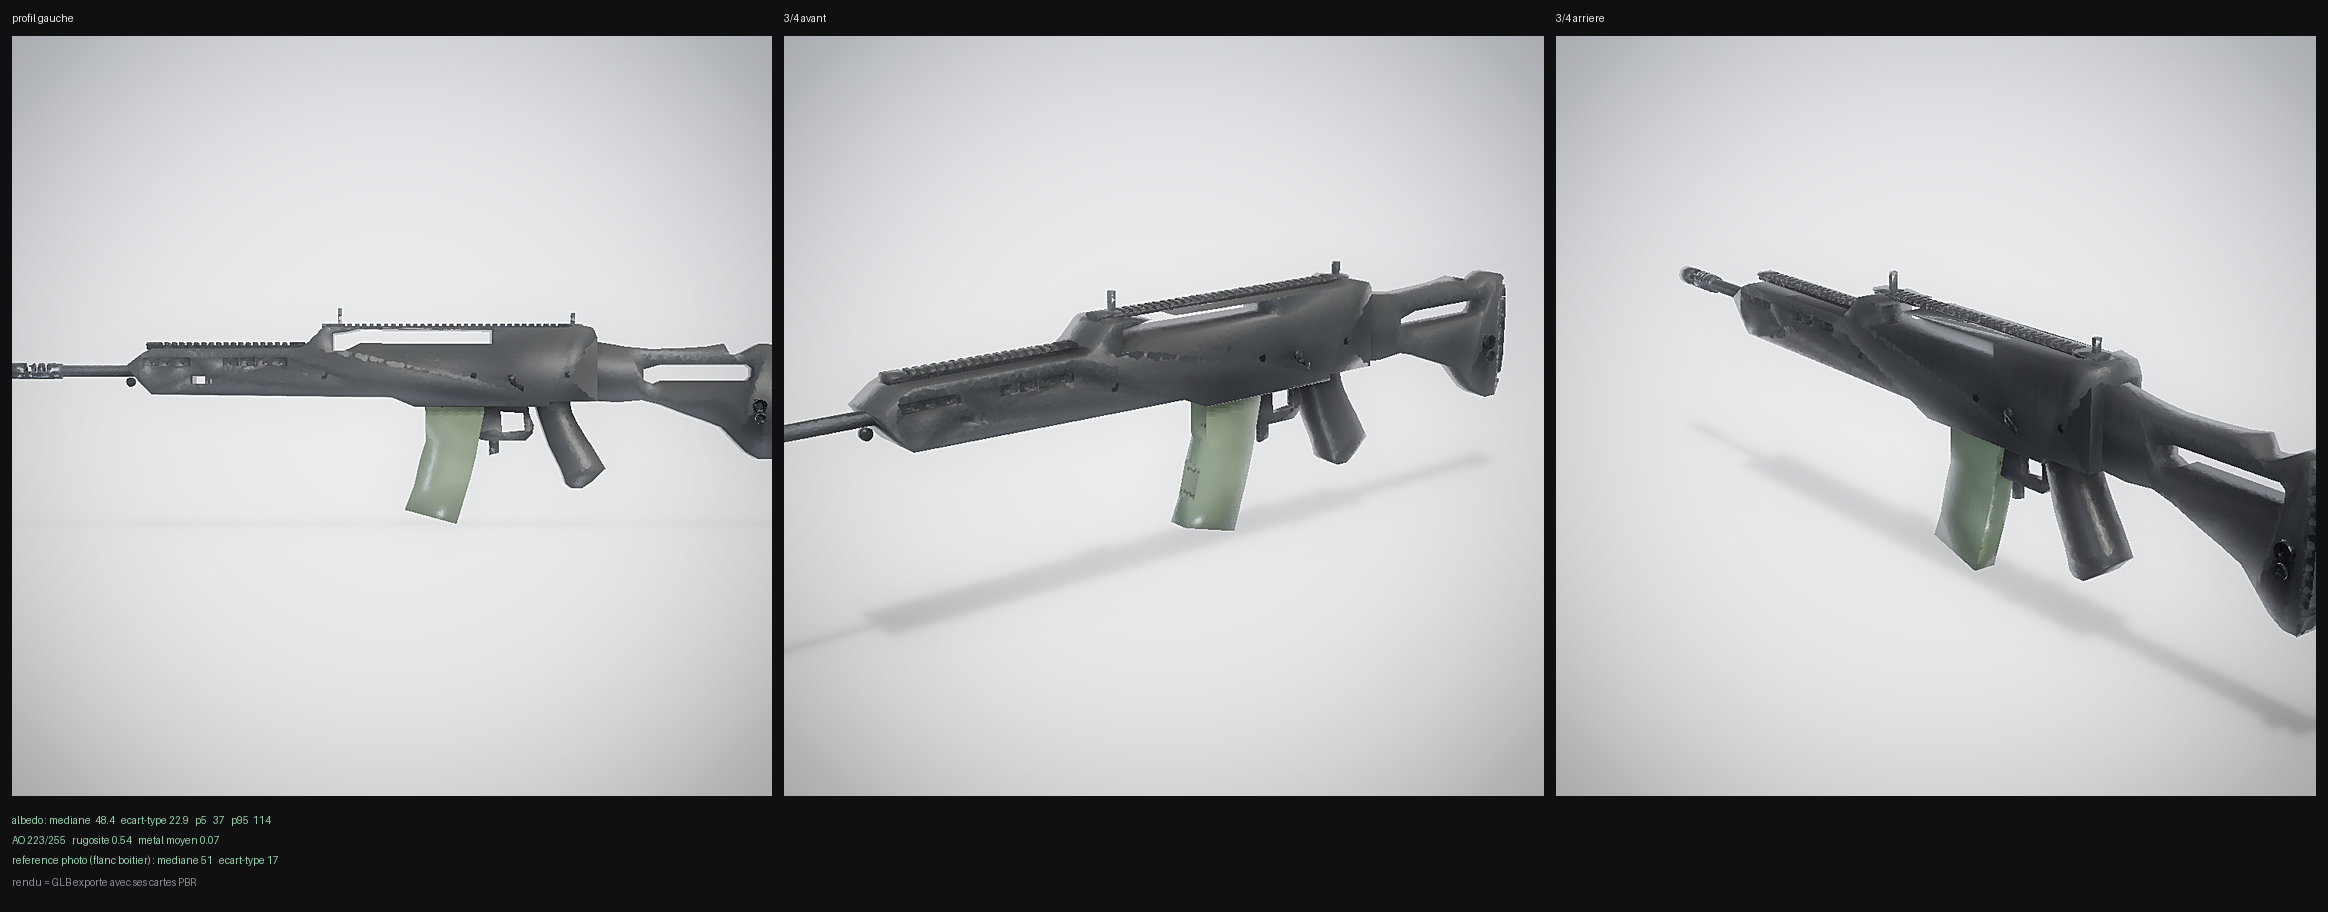
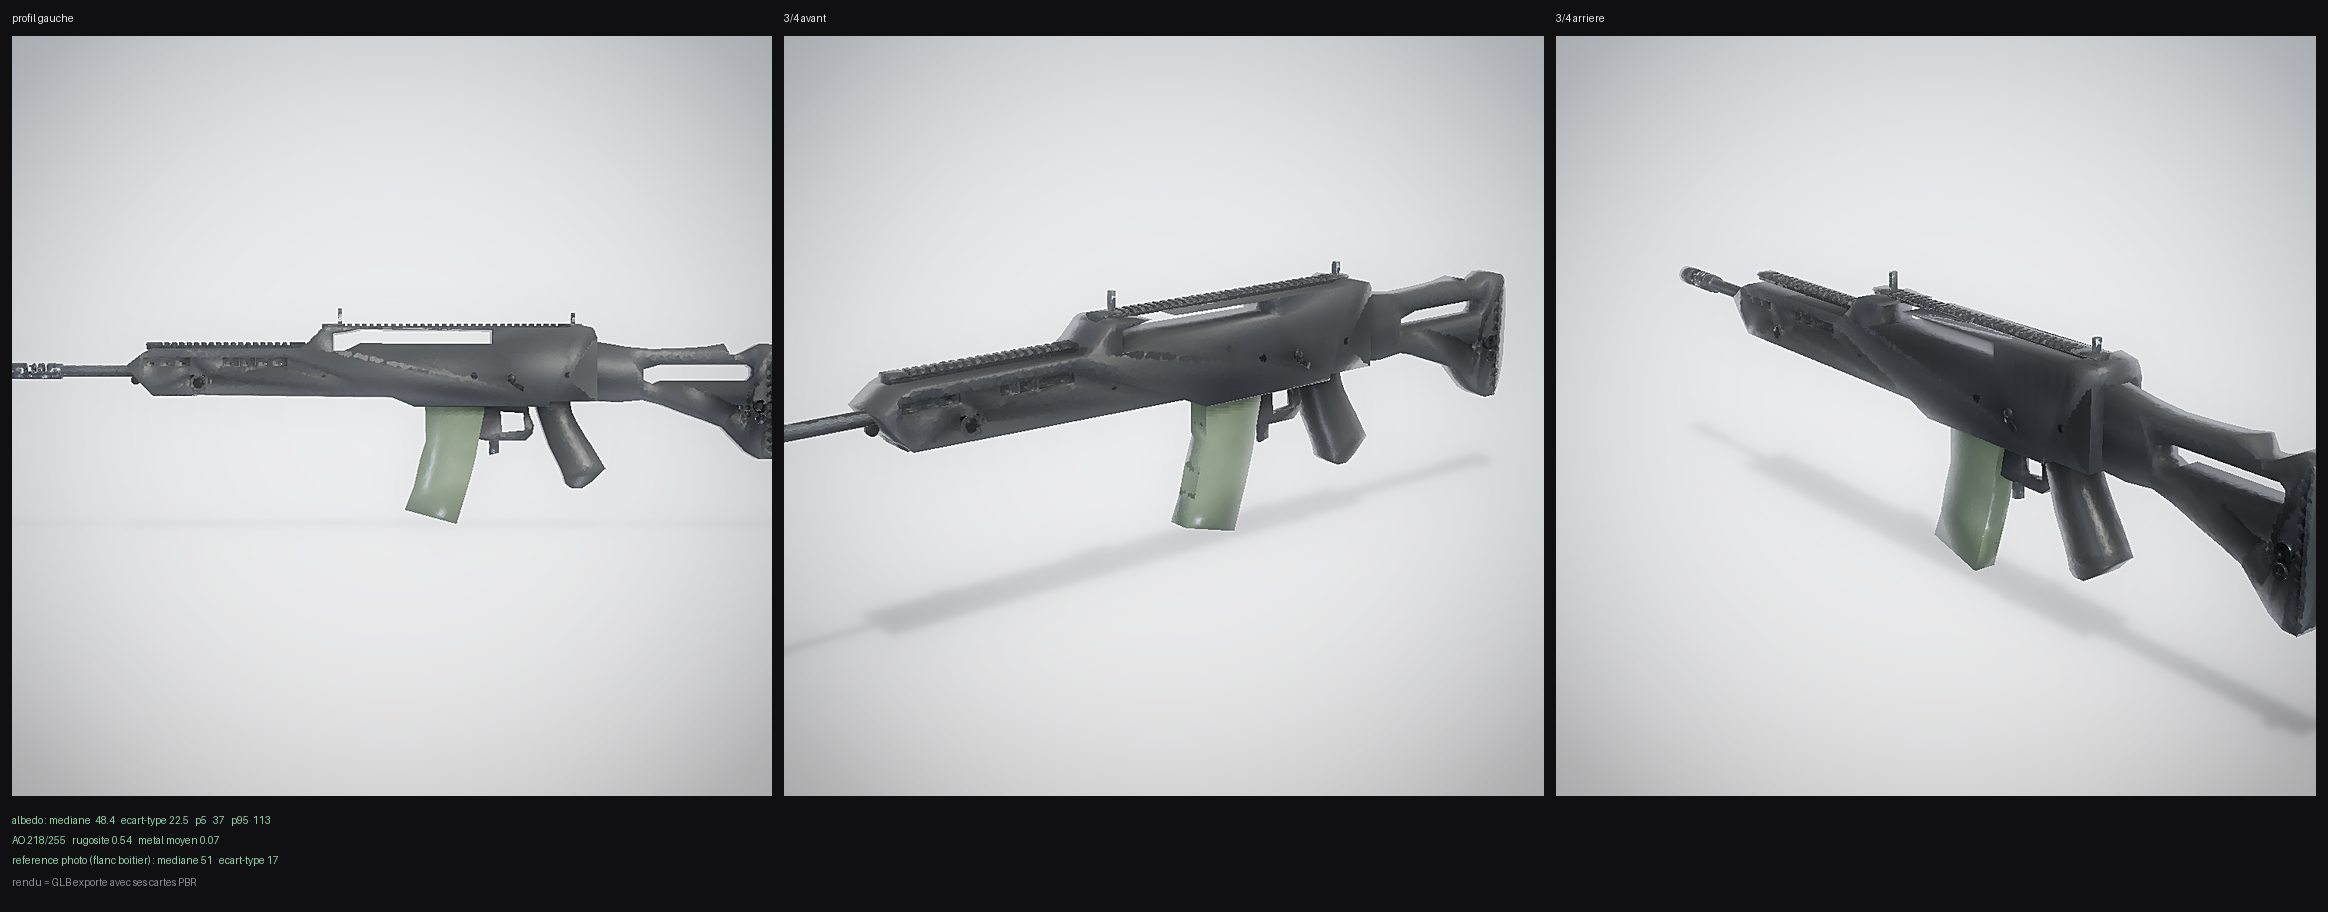
G36 — détails relevés sur photo : rail bas, treillis, QD, collier
Six manques trouvés en comparant des zooms de la photo au rendu, pas en
devinant. Chacun vient avec sa mesure.

- rail INFÉRIEUR court sous l'avant du garde-main : dents de z -27,8 à -30,9,
  pas de 11 mm, y +250 à +305. Il manquait complètement — c'est une des
  signatures du G36 à rails. Construit à la main : un Picatinny retourné
  verrait ses dents vers le haut.
- treillis du talon : 10 losanges en creux (pas 11,3 mm) sur les deux joues,
  y -470..-490. Poches borgnes et non jours (sur la photo elles restent
  sombres alors que le fond est clair). À 2,6 mm de profondeur le motif
  disparaissait sous l'ombrage — ramené à 1,2 mm.
- 3 trous de grenadière traversants dans la crosse (6 x 8 mm) + goupille de
  z -90, aux positions mesurées.
- douille QD de 14 mm sur les deux flancs du garde-main (y +245, z -16).
- collier de canon de 24 mm à y +310.
- grenadière avant replacée à y +330 : je l'avais mise à +350, 20 mm trop en
  avant, en lisant mal l'échelle du zoom.

La plaque de couche est SIMPLIFIÉE : les cylindres à 3 sections qui figuraient
les échelles lisaient comme des dents de peigne et bavaient à l'export. Le
treillis mesuré est taillé dans la crosse, où il est réellement.

36 pièces, 6 300 tris, watertight. IoU 0,9288, erreur 1,5/1,5 mm.
LOD0 6 324 / 4 276 / 2 794, 1 draw call, 6 UCX, 11 sockets.
Portes 24/24. pytest 70 passed, 4 skipped.

diff --git a/examples/g36_rifle/build_g36.py b/examples/g36_rifle/build_g36.py
@@ -262,6 +262,21 @@ def build() -> mk.Builder:
     # réduit à un pont de 2,5 mm qui forme le toit.
     b.add(rail(0.112, 0.315, Z_HG_T, teeth=18, height=Z_HG_RAIL_T - Z_HG_T),
           MAT_POLY_DK, name="handguard_rail")
+
+    # Rail INFÉRIEUR court, sous l'avant du garde-main (relevé sur la photo :
+    # dents de z -27,8 à -30,9, pas de 11 mm, de y +250 à +305). Il manquait
+    # complètement et c'est une des signatures visuelles du G36 à rails.
+    # Construit à la main : un rail Picatinny retourné verrait ses dents vers
+    # le haut, il faut donc la semelle puis les dents vers le BAS.
+    under_parts = [prism_x([(0.2480, -0.0272), (0.2480, -0.0300),
+                            (0.3070, -0.0300), (0.3070, -0.0272)],
+                           -HW_HG * 0.72, HW_HG * 0.72)]
+    for k in range(5):
+        yc = 0.3020 - 0.0110 * k
+        under_parts.append(prism_x([(yc - 0.0040, -0.0300), (yc - 0.0040, -0.0316),
+                                    (yc + 0.0040, -0.0316), (yc + 0.0040, -0.0300)],
+                                   -HW_HG * 0.66, HW_HG * 0.66))
+    b.add(mk.union(under_parts), MAT_POLY_DK, name="handguard_rail_low")
     top_rail = rail(-0.244, 0.090, Z_RC_T, teeth=30, height=Z_RAIL_T - Z_RC_T)
     # découpe du rail au-dessus de la fenêtre : on enlève TOUT ce qui est
     # sous +25,2 mm sur la plage de la fenêtre (les dents descendent à +25,
@@ -304,7 +319,32 @@ def build() -> mk.Builder:
                     (-0.3350, -0.0175), (-0.3220, -0.0115), (-0.3220, 0.0020),
                     (-0.3450, 0.0085), (-0.4580, 0.0085), (-0.4640, 0.0040)],
                    -0.040, 0.040)
-    b.add(mk.difference(stock, [swin]), MAT_POLY, name="stock_frame")
+    # Trous de grenadière relevés sur la photo (3 ouvertures de 6 x 8 mm à
+    # y -447/-456/-457, z -47/-47/-56) + la petite goupille de z -90.
+    sling_holes = []
+    for yh, zh in ((-0.4470, -0.0470), (-0.4560, -0.0470), (-0.4570, -0.0560)):
+        hh = mk.cylinder(0.0034, 0.060, sections=16)
+        mk.rot_y(hh, 90.0)
+        mk.place(hh, -0.030, yh, zh)
+        sling_holes.append(hh)
+    pin_h = mk.cylinder(0.0016, 0.060, sections=12)
+    mk.rot_y(pin_h, 90.0)
+    mk.place(pin_h, -0.030, -0.4836, -0.0900)
+    sling_holes.append(pin_h)
+
+    # Treillis du talon : 10 losanges en CREUX (pas de 11,3 mm), mesurés à
+    # y -470..-490. Ce sont des poches borgnes, pas des jours — sur la photo
+    # elles restent sombres alors que le fond est clair.
+    lattice = []
+    for k in range(10):
+        zc = 0.0020 - 0.0113 * k
+        r = 0.0044
+        dia = [( -0.4836, zc + r), (-0.4836 + r * 1.25, zc),
+               (-0.4836, zc - r), (-0.4836 - r * 1.25, zc)]
+        for x0, x1 in ((-0.0195, -0.0128), (0.0128, 0.0195)):
+            lattice.append(prism_x(dia, x0, x1))
+    b.add(mk.difference(stock, sling_holes + lattice + [swin]),
+          MAT_POLY, name="stock_frame")
 
     # ================================================================== #
     # 3. PLAQUE DE COUCHE — échelles triangulaires de la référence
@@ -316,14 +356,8 @@ def build() -> mk.Builder:
                     (-0.4985, -0.0660), (-0.4970, -0.0790), (-0.4950, -0.0890),
                     (-0.4930, -0.0985), (-0.4900, -0.1055), (-0.4865, -0.1130)],
                    -0.0165, 0.0165)
-    ladder = []
-    for k in range(7):
-        zc = 0.024 - 0.0190 * k
-        t = mk.cylinder(0.0040, 0.030, sections=12)
-        mk.rot_y(t, 90.0)
-        mk.place(t, -0.0225, -0.4935, zc)
-        ladder.append(t)
-    b.add(mk.difference(butt, ladder), MAT_POLY, name="butt_pad")
+    # le treillis est taillé dans la crosse, pas dans la plaque
+    b.add(butt, MAT_POLY, name="butt_pad")
 
     # ================================================================== #
     # 4. CHARGEUR — banane mesurée : -33 en haut, pointe à -197
@@ -479,8 +513,29 @@ def build() -> mk.Builder:
     # grenadière avant
     loop = mk.tube(0.0048, 0.0028, 0.0070, sections=20)
     mk.rot_y(loop, 90.0)
-    mk.place(loop, -0.0036, 0.336, -0.014)
+    mk.place(loop, -0.0036, 0.330, -0.011)
     b.add(loop, MAT_STEEL_DK, name="sling_loop_front")
+
+    # Collier de canon : la bague de 24 mm qui serre le canon devant le
+    # garde-main (mesurée à y +0,310, épaisseur 12 mm).
+    clamp = mk.cylinder(0.0120, 0.0120, sections=26)
+    mk.rot_x(clamp, 90.0)
+    mk.place(clamp, 0.0, 0.3100, 0.0)
+    b.add(clamp, MAT_STEEL, name="barrel_clamp")
+
+    # Boulon / douille QD du flanc avant du garde-main (rond de 7 mm cerclé
+    # d'une cuvette, à y +245, z -16 sur la photo).
+    for sx in (-1.0, 1.0):
+        qd = mk.cylinder(0.0070, 0.0050, sections=22)
+        mk.rot_y(qd, 90.0)
+        mk.place(qd, sx * (HW_HG - 0.0012), 0.2450, -0.0160)
+        b.add(qd, MAT_STEEL_DK, name=f"qd_socket_{'l' if sx < 0 else 'r'}")
+        cup = mk.cylinder(0.0105, 0.0022, sections=26)
+        mk.rot_y(cup, 90.0)
+        mk.place(cup, sx * (HW_HG + 0.0004), 0.2450, -0.0160)
+        b.add(mk.difference(cup, [mk.place(mk.rot_y(mk.cylinder(0.0072, 0.010, sections=22), 90.0),
+                                           sx * (HW_HG + 0.0004), 0.2450, -0.0160)]),
+              MAT_POLY_DK, name=f"qd_cup_{'l' if sx < 0 else 'r'}")
 
     # Anneau arrière, sur la joue du talon de crosse (la photo le montre à
     # y -0,470, z -0,045). Le support traverse la crosse : on le perce d'un
@@ -501,7 +556,7 @@ def build() -> mk.Builder:
     # ajoute le support percé dans le nez du garde-main.
     sad2 = mk.cylinder(0.0060, 0.0062, sections=20)
     mk.rot_y(sad2, 90.0)
-    mk.place(sad2, -0.0040, 0.3360, -0.0140)
+    mk.place(sad2, -0.0040, 0.3300, -0.0110)
     b.add(sad2, MAT_STEEL_DK, name="sling_mount_front")
 
     # ================================================================== #

diff --git a/examples/g36_rifle/README.md b/examples/g36_rifle/README.md
@@ -161,3 +161,32 @@ Les marquages **F / E / S** du boîtier ont été modélisés puis **retirés** 
 2 mm de haut, ils sont dévorés par la résolution de l'atlas UV (mesuré : 3 × 3
 texels). Sur un vrai pipeline ils appartiennent à un décalque séparé, pas à la
 géométrie ni à l'atlas commun.
+
+## Détails de la passe suivante
+
+Relevés un par un sur des zooms de la photo, pas devinés :
+
+- **rail inférieur court** sous l'avant du garde-main — dents de z −27,8 à −30,9,
+  pas de 11 mm, de y +250 à +305. Il manquait complètement, et c'est une des
+  signatures visuelles du G36 à rails. Construit à la main : un Picatinny
+  « retourné » verrait ses dents vers le haut.
+- **treillis du talon** : 10 losanges en creux (pas de 11,3 mm) sur les deux
+  joues, y −470…−490. Ce sont des **poches borgnes**, pas des jours — sur la
+  photo elles restent sombres alors que le fond est clair. Première tentative à
+  2,6 mm de profondeur : le motif disparaissait sous l'ombrage, ramené à 1,2 mm.
+- **3 trous de grenadière** traversants dans la crosse (6 × 8 mm) + la petite
+  goupille de z −90, aux positions mesurées.
+- **douille QD** de 14 mm sur les deux flancs du garde-main (boulon cerclé d'une
+  cuvette), à y +245, z −16.
+- **collier de canon** de 24 mm à y +310.
+- **grenadière avant** replacée à y +330 : je l'avais d'abord déplacée à +350,
+  soit 20 mm trop en avant, en lisant mal l'échelle du zoom.
+
+La plaque de couche a été **simplifiée** : les cylindres à 3 sections qui
+figuraient les « échelles » lisaient comme des dents de peigne et bavaient à
+l'export. Le treillis mesuré est maintenant taillé dans la crosse, là où il est
+vraiment.
+
+Vérifications : 36 pièces · 6 300 tris · watertight · IoU **0,9288** ·
+erreur de contour **1,5 mm / 1,5 mm** · LOD0 **6 324** / 4 276 / 2 794 ·
+1 draw call · 6 UCX · 11 sockets · portes **24/24** · pytest **70 passed**.
